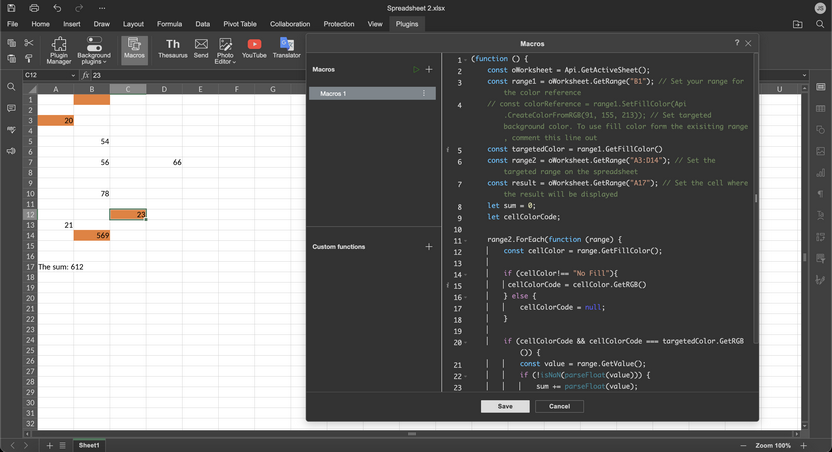
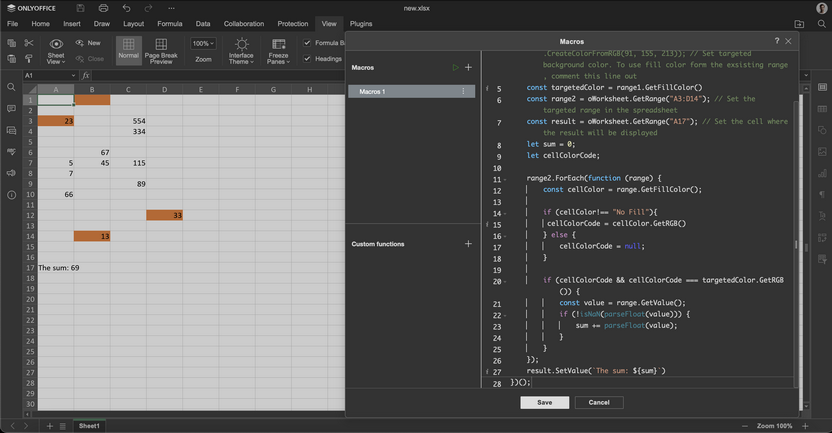
UPDATE images, index.md

diff --git a/site/pages/Docs/Plugin and Macros/Macros/Samples/Sum of Highlighted Cells/index.md b/site/pages/Docs/Plugin and Macros/Macros/Samples/Sum of Highlighted Cells/index.md
@@ -14,9 +14,9 @@ Sums the answer of all highlighted cells in a spreadsheet.
 (function () {
     const oWorksheet = Api.GetActiveSheet();
     const range1 = oWorksheet.GetRange("B1"); // Set your range for the color reference
-    const colorReference = range1.SetFillColor(Api.CreateColorFromRGB(91, 155, 213)); // Set targeted background color. To use fill color form the exisiting range, comment this line out
+    const colorReference = range1.SetFillColor(Api.CreateColorFromRGB(91, 155, 213)); // Set targeted background color. To use fill color form the exsisting range, comment this line out
     const targetedColor = range1.GetFillColor()
-    const range2 = oWorksheet.GetRange("A1:A16"); // Set the targeted range on the spreadsheet
+    const range2 = oWorksheet.GetRange("A1:A16"); // Set the targeted range in the spreadsheet
     const result = oWorksheet.GetRange("A17"); // Set the cell where the result will be displayed
     let sum = 0;
     let cellColorCode;

diff --git a/site/pages/Docs/Plugin and Macros/Macros/Samples/index.md b/site/pages/Docs/Plugin and Macros/Macros/Samples/index.md
@@ -130,6 +130,12 @@ In this example we are adding comments and changing the background colors of sel
 
 [More](Add%20comments%20and%20change%20cell%20colors%20in%20spreadsheet/index.md)
 
+## Sum of highlighted cells
+
+In this example we are adding the values of highlighted cells in the spreadsheet.
+
+[More](Sum%20of%20highlighted%20cells/index.md)
+
 ## Support
 
 If you want to request a feature or report a bug regarding macros, use the issues section [on GitHub.](https://github.com/ONLYOFFICE/plugin-macros/issues)
